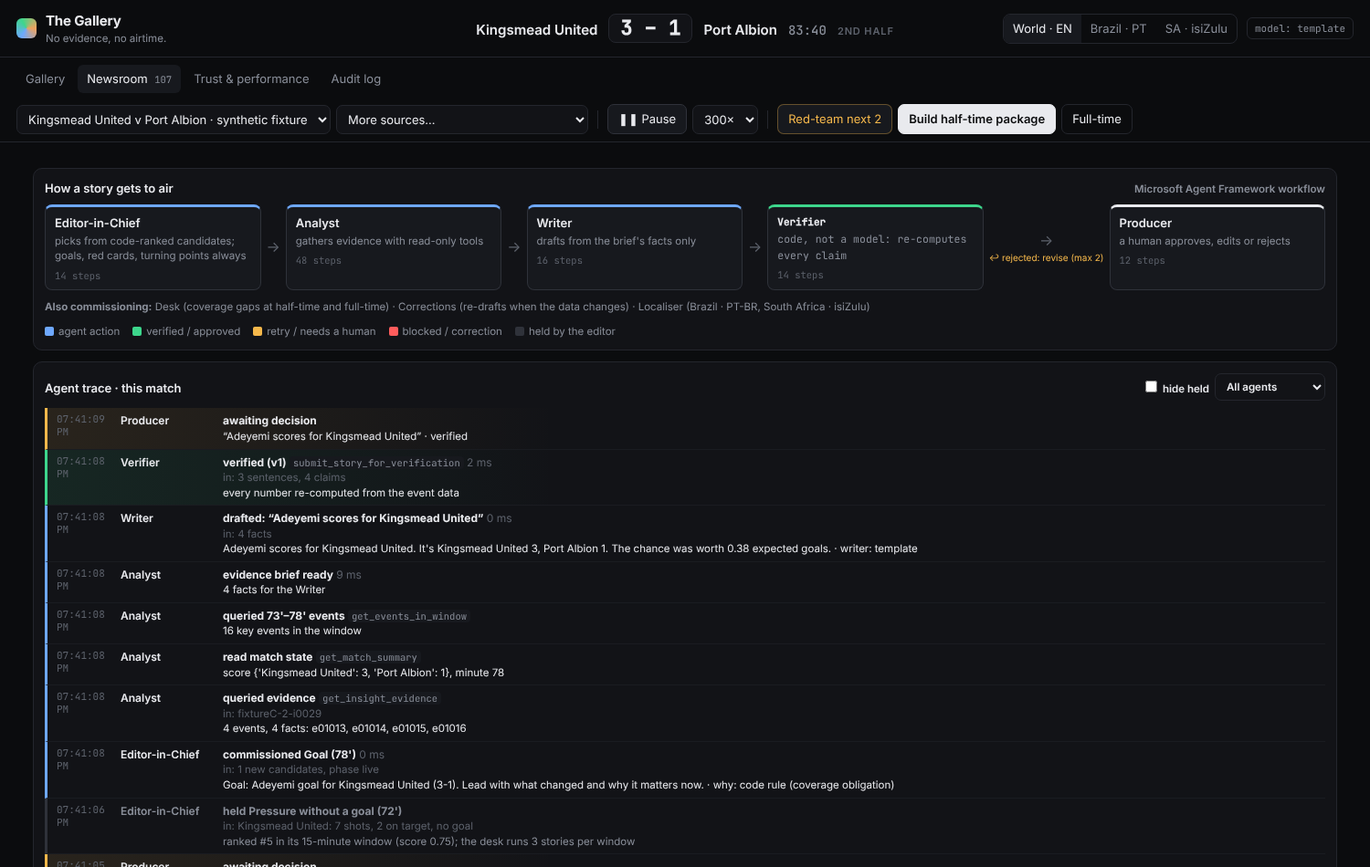
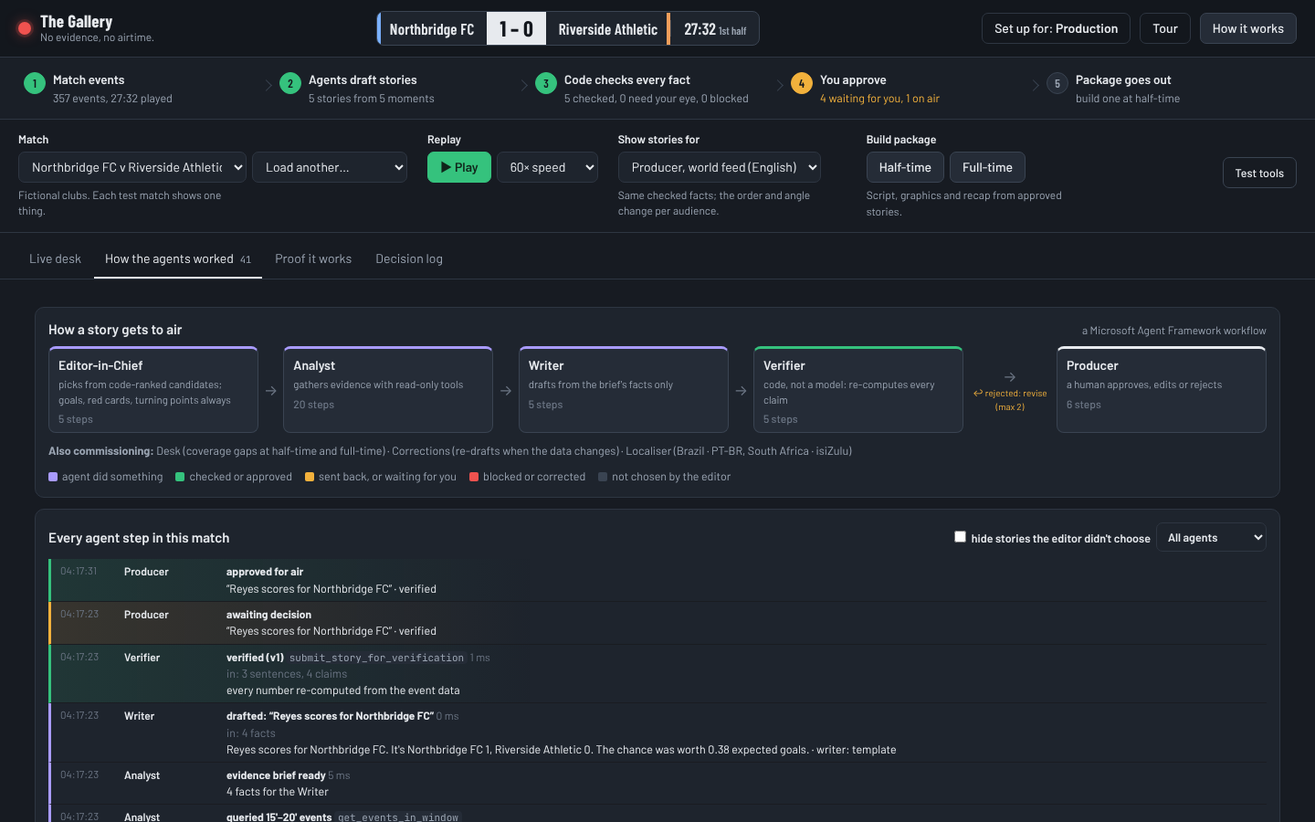
Full review: phone scrolling fix, trimmed desk, plain-language package, fresh screenshots, LICENSE, update PRs paused
- phones: the page scrolls again (body overflow-x clip instead of a nested scroller)
- removed the duplicate agent panel; second story list no longer repeats the top stories; match-data panel folds
- package drawer shows rights in plain words (full JSON stays in the download); corrections say 'corrected version' instead of ids
- lower third clears after its time instead of covering the pitch; active player drawn on top; fan wording
- writer badge only when a model is configured; unused CSS removed; version 1.0.0
- README screenshots retaken; demo script v4 and write-up (Copilot, roles, pitch, 374 claims); all-rights-reserved LICENSE per the Official Rules
- Dependabot version PRs paused until after judging (20 Nov); ops notes on keeping the demo awake

Claude-Session: https://claude.ai/code/session_01V1DcQB5TniVkacFhhCeCvU

Changed region(s): [[0.0, 0.0, 1.0, 1.0], [0.7188, 0.6533, 0.9375, 0.6844], [0.0938, 0.9333, 0.125, 0.9644]]

diff --git a/web/app.js b/web/app.js
@@ -215,7 +215,7 @@
       rb.title = "At full time the score rebuilt from the events is compared with the fixture's known result.";
     } else rb.className = "result hidden";
     renderFeedPanel();
-    renderFeed(); renderMomentum(); renderQueue(); renderInspector(); renderMiniTrace(); renderPipe();
+    renderFeed(); renderMomentum(); renderQueue(); renderInspector(); renderPipe();
     if (S.tab === "trust") renderTrust();
     if (S.tab === "newsroom") renderNewsroom();
     $("traceCount").textContent = S.trace.length ? S.trace.length : "";
@@ -396,7 +396,7 @@
     const tag = cur && cur.kind === "player_tag" ? cur : null;
     $("fTag").classList.toggle("hidden", !tag);
     if (tag) { $("fTag").querySelector(".ptag-name").textContent = `#${shirt(tag.team_id, tag.player)} ${tag.player}`; $("fTag").querySelector(".ptag-val").textContent = tag.fields.value; }
-    const story = cur && cur.kind === "story" ? cur : OV.lastStory;
+    const story = cur && cur.kind === "story" ? cur : null;
     $("fL3").classList.toggle("hidden", !story); $("fL3").classList.toggle("stale", !!story && story !== cur);
     $("fEmpty").classList.toggle("hidden", !!story || S.events.length > 0);
     if (story) {
@@ -516,7 +516,7 @@
     P.ball.path = end ? [start, end] : [start]; P.ball.t0 = performance.now();
     if (end && P.trail) { P.trail.setAttribute("x1", PX(start[0])); P.trail.setAttribute("y1", PY(start[1])); P.trail.setAttribute("x2", PX(end[0])); P.trail.setAttribute("y2", PY(end[1])); P.trail.classList.toggle("shot", e.type === "shot"); P.trail.style.opacity = 0.8; }
     if ((e.type === "shot" && e.outcome === "goal") || e.type === "own_goal") flash(e.type === "own_goal" ? "OWN GOAL" : "GOAL", e);
-    const n = P.nodes && P.nodes[P.active]; if (n) n.querySelector(".pn").textContent = e.player || "";
+    const n = P.nodes && P.nodes[P.active]; if (n) { n.querySelector(".pn").textContent = e.player || ""; n.parentNode.appendChild(n); }
   }
   function flash(kind, e) {
     const f = $("goalFlash"), num = shirt(pteam(e), e.player), sc = { HOME: 0, AWAY: 0 };
@@ -592,14 +592,16 @@
     $("queue").innerHTML = top.length ? top.map(({ r, s }) => card(s, r, false)).join("")
       : `<div class="empty">${S.events.length ? (fan ? "Nothing big in the last 15 minutes. Stories appear here the moment something happens." : "Watching… no story in the last 15 minutes yet.") : (S.snap.mode === "live" ? "Press Kick-off, then log events as you watch." : S.snap.mode === "real" ? `Real match: ${esc(S.snap.meta.date || "")} · ${esc(S.snap.meta.stadium || "")}. Press Play to replay it event by event.` : fan ? "Press ▶ Play to watch the match unfold. This is a made-up match, replayed event by event." : "Press Play to start the replay.")}</div>`;
     const f = S.funnel || {};
-    $("queueNote").textContent = S.market === "viewer" && S.viewer
+    $("queueNote").textContent = fan ? (S.viewer?.club || S.viewer?.player ? `${[S.viewer.club && S.snap.names[S.viewer.club], S.viewer.player].filter(Boolean).join(" and ")} first.` : "The biggest moment of the last 15 minutes.")
+      : S.market === "viewer" && S.viewer
       ? `What ${fanLabel()} would see: the same checked stories, re-ordered and trimmed for them.`
       : S.market !== "world" ? `The strongest checked stories for the ${({ br: "Brazil", za: "South Africa" })[S.market]} feed. The lead story changes with the audience.`
       : "The three strongest checked stories from the last 15 minutes, ranked by code. Click one to review it.";
     $("funnel").textContent = `${f.insights || 0} insights → ${f.storylines || 0} storylines → ${f.verified || 0} verified · ${f.flagged || 0} flagged · ${f.blocked || 0} blocked → ${f.approved || 0} approved`;
     const rankById = Object.fromEntries((S.rankings[S.market] || []).map((r) => [r.insight_id, r]));
-    const list = Object.values(S.storylines).filter((s) => s.market === "world" && (!fan || fanSafe(s))).sort((a, b) => b.minute - a.minute || b.created_at - a.created_at);
-    $("allStories").innerHTML = list.map((w) => card(S.market === "world" ? w : (storyFor(w.insight_id) || w), rankById[w.insight_id], true)).join("") || `<div class="empty">No storylines yet.</div>`;
+    const shown = new Set(top.map(({ s }) => s.storyline_id));   // the top stories are already on screen above
+    const list = Object.values(S.storylines).filter((s) => s.market === "world" && !shown.has(s.storyline_id) && (!fan || fanSafe(s))).sort((a, b) => b.minute - a.minute || b.created_at - a.created_at);
+    $("allStories").innerHTML = list.map((w) => card(S.market === "world" ? w : (storyFor(w.insight_id) || w), rankById[w.insight_id], true)).join("") || `<div class="empty">${S.events.length ? "Nothing else yet." : "No stories yet."}</div>`;
   }
 
   function card(s, r, compact) {
@@ -706,8 +708,8 @@
 
     const repl = replacementOf(s);
     const banner = s.status === "superseded" ? `<div class="corr">Replaced by a corrected version. This one can no longer be approved. <button class="btn ghost small" data-goto="${s.superseded_by}">Open the correction</button></div>`
-      : s.status === "needs_correction" ? `<div class="corr">⚠ The data behind this approved story changed. ${repl ? `The Corrections agent drafted v-next (${esc(repl.overall.replace("_", " "))}). Approve it to replace this one on air.` : "The Corrections agent is re-drafting it."} ${repl ? `<button class="btn ghost small" data-goto="${repl.storyline_id}">Review the correction</button>` : ""}</div>`
-      : s.supersedes ? `<div class="corr fix">Correction of ${esc(s.supersedes)}. Approving it takes the old version off air. <button class="btn ghost small" data-goto="${s.supersedes}">See the old version</button></div>` : "";
+      : s.status === "needs_correction" ? `<div class="corr">⚠ The data behind this approved story changed. ${repl ? `The Corrections agent drafted a corrected version (${esc(VLABEL[repl.overall] || repl.overall).toLowerCase()}). Approve it to replace this one on air.` : "The Corrections agent is re-drafting it."} ${repl ? `<button class="btn ghost small" data-goto="${repl.storyline_id}">Review the correction</button>` : ""}</div>`
+      : s.supersedes ? `<div class="corr fix">Corrected version of “${esc(S.storylines[s.supersedes]?.headline || "an earlier story")}”. Approving it takes the old version off air. <button class="btn ghost small" data-goto="${s.supersedes}">See the old version</button></div>` : "";
     const commission = s.commissioned_by ? `<div class="small muted" style="margin-top:6px">Commissioned by <b>${esc(AGENT_LABEL[s.commissioned_by] || s.commissioned_by)}</b>: ${esc(s.brief || "")}${s.commission_reason ? ` <span class="faint">(${esc(s.commission_reason)})</span>` : ""}</div>` : "";
     $("inspBody").className = "insp";
     $("inspBody").innerHTML = `${banner}
@@ -818,7 +820,19 @@
       ${(p.needs_correction || []).length ? `<div class="corr">⚠ ${p.needs_correction.length} approved stor${p.needs_correction.length === 1 ? "y is" : "ies are"} now contradicted by the data and left out: ${esc(p.needs_correction.join("; "))}</div>` : ""}`;
     $("pkgBody").innerHTML = `<div>${covHtml}${p.note ? `<div class="empty">${esc(p.note)}</div>` : items}</div>
       <div><h4 style="margin-top:0">Recap</h4><div>${esc(p.recap)}</div><h4>Social copy</h4><div>${esc(p.social)}</div>
-      <h4>Rights envelope</h4><div class="code">${esc(JSON.stringify(p.rights || {}, null, 2))}</div><h4>Graphics payload (JSON)</h4><div class="code">${esc(JSON.stringify(p.items.map((i) => i.graphic_payload), null, 2))}</div></div>`;
+      <h4>Where it can be used</h4>${rightsSummary(p.rights)}
+      <p class="small muted">The full rights terms and graphics data are in <b>Everything (.json)</b>.</p></div>`;
+  }
+  function rightsSummary(r) {
+    if (!r) return `<p class="muted small">No rights terms.</p>`;
+    const words = (xs) => (xs || []).map((x) => x.replace(/_/g, " ")).join(", ");
+    const until = r.expires_at ? new Date(r.expires_at * 1000).toLocaleString([], { weekday: "short", hour: "2-digit", minute: "2-digit" }) : "–";
+    return `<div class="kv small"><span>Territories</span><span>${esc(words(r.territories))}</span>
+      <span>Surfaces</span><span>${esc(words(r.allowed_surfaces))}</span>
+      <span>Video clips</span><span>${esc(words([r.clip_rights]))}</span>
+      <span>Valid until</span><span>${esc(until)}</span>
+      <span>Approval</span><span>${r.approval_state === "producer_approved" ? "every story approved by a producer" : "nothing approved yet"}</span>
+      <span>Checked</span><span>${esc(r.verification || "")}</span></div>`;
   }
   $("copyPayload").onclick = async () => {
     if (!S.pkg) return;
@@ -920,10 +934,6 @@
       if (S.selected === sid) renderInspector();
     }, 120);
   }
-  function renderMiniTrace() {
-    const rows = S.trace.filter((t) => t.status !== "held").slice(-9).reverse();
-    $("miniTrace").innerHTML = traceRows(rows, false) || `<li class="muted small">Agents start when the first story is detected.</li>`;
-  }
   const FLOW = [
     ["Editor-in-Chief", "picks from code-ranked candidates; goals, red cards, turning points always"],
     ["Analyst", "gathers evidence with read-only tools"],
@@ -953,6 +963,7 @@
     b.textContent = p.status === "ready" && p.provider !== "template" ? `Writer: ${name} (${(p.model || "").split(":")[0].replace(/-instruct.*$/, "")})` : p.selected !== "template" ? `Writer: templates (${name === "template" ? p.selected.replace("_", " ") : name} ${p.status})` : "Writer: templates";
     b.title = p.detail + (p.failures ? ` · ${p.failures} model failures fell back to templates` : "");
     b.className = "badge " + (p.status === "ready" && p.provider !== "template" ? "on" : ["starting", "downloading", "loading"].includes(p.status) ? "busy" : "");
+    b.classList.toggle("hidden", p.selected === "template" && p.provider === "template");   // nothing to report without a model
   }
   async function pollProvider() {
     try { S.provider = await api("/api/model"); renderProvider(); } catch (_) {}

diff --git a/web/index.html b/web/index.html
@@ -69,7 +69,7 @@
           <option value="archive">Archive match (validation only)</option>
         </select>
       </div>
-      <small>Synthetic matches with fictional clubs. Each fixture tests one thing.</small>
+      <small>Fictional clubs. Each test match shows one thing.</small>
     </div>
 
     <div class="ctl" id="replayControls">
@@ -81,7 +81,6 @@
           <option value="60">60× speed</option><option value="300">300× speed</option>
         </select>
       </div>
-      <small>Plays the match event by event, as if it were live.</small>
     </div>
 
     <div class="ctl hidden" id="liveControls">
@@ -104,7 +103,7 @@
         <select id="fanPlayer" aria-label="A player to follow"><option value="">No player</option></select>
         <span class="seg" id="fanDepth" role="group" aria-label="How much detail"><button type="button" data-v="casual" class="on">Simple</button><button type="button" data-v="analyst">All the stats</button></span>
       </div>
-      <small>Pick your club or a player; their moments come first.</small>
+      <small>Their moments come first.</small>
     </div>
 
     <div class="ctl pro-only">
@@ -126,7 +125,7 @@
         <button class="btn" id="htBtn">Half-time <span id="htCountdown"></span></button>
         <button class="btn" id="ftBtn">Full-time</button>
       </div>
-      <small>Collects approved stories into a script, graphics and recap.</small>
+      <small>Script, graphics and recap from approved stories.</small>
     </div>
 
     <details class="ctl tools pro-only" id="toolsMenu">
@@ -166,26 +165,21 @@
     </section>
     <div class="grid">
     <section class="col left">
-      <div class="panel hidden pro-only" id="feedPanel">
-        <div class="panel-h"><h2 id="feedTitle">About this match</h2><span class="hint" id="feedState"></span></div>
+      <details class="panel hidden pro-only fold" id="feedPanel">
+        <summary class="panel-h"><h2 id="feedTitle">About this match</h2><span class="hint" id="feedState"></span></summary>
         <div class="small" id="feedCaps"></div>
         <div class="kv small" id="teamStats"></div>
-      </div>
+      </details>
 
       <div class="panel grow">
         <div class="panel-h"><h2>Match events</h2><span class="hint" id="eventCount">0</span></div>
         <ol id="feed" class="feed"></ol>
       </div>
-
-      <div class="panel pro-only">
-        <div class="panel-h"><h2>Agents at work</h2><span class="hint">latest first</span></div>
-        <ol id="miniTrace" class="trace mini"></ol>
-      </div>
     </section>
 
     <section class="col centre">
       <div class="panel onscreen">
-        <div class="panel-h"><h2>On screen</h2><span class="hint">what viewers would see, from the overlay feed</span></div>
+        <div class="panel-h"><h2>On screen</h2><span class="hint"><span class="pro-only">what viewers would see</span><span class="fan-only">the match, live</span></span></div>
         <div class="frame" id="frame" aria-live="polite">
           <svg id="pitch" class="pitch" viewBox="0 0 160 90" preserveAspectRatio="xMidYMid meet" role="img" aria-label="Live pitch: ball and players"></svg>
           <div id="goalFlash" class="goalflash hidden" role="status"></div>
@@ -195,7 +189,7 @@
           <p class="frame-empty" id="fEmpty"><span class="pro-only">Approve a story and it appears here as an on-screen graphic.</span><span class="fan-only">Fast shots and long passes get a name tag here automatically.</span></p>
         </div>
         <div class="frame-foot">
-          <small>The ball and the player on it (shirt number from the team sheet) follow the event data; teammates are drawn in team shape, since the feed has no tracking data. <span class="pro-only">Only stories you approve go on screen as graphics. </span>Name tags fire on their own for shots of 100 km/h or more and passes of 40 m or more.</small>
+          <small>Ball and player on the ball: from the match data. Teammates: team shape (no tracking data). <span class="pro-only">Only approved stories become graphics.</span></small>
           <button class="btn pro-only" id="outputsBtn" title="Put these graphics into OBS, vMix, Wirecast or CasparCG, or read them as data">Use in your graphics system</button>
         </div>
       </div>
@@ -210,7 +204,7 @@
       <div id="queue" class="queue"></div>
 
       <div class="section-h">
-        <h2><span class="pro-only">All stories</span><span class="fan-only">Earlier in the match</span></h2>
+        <h2><span class="pro-only">More stories</span><span class="fan-only">Earlier in the match</span></h2>
         <p id="funnel" class="pro-only"></p>
       </div>
       <div id="allStories" class="stories"></div>

diff --git a/web/styles.css b/web/styles.css
@@ -44,10 +44,6 @@ button, input, select { font: inherit; color: inherit; }
   padding: 12px 18px; border-bottom: 1px solid var(--line); gap: 16px;
 }
 .brand { display: flex; gap: 10px; align-items: center; }
-.brand-mark {
-  width: 22px; height: 22px; border-radius: 6px;
-  background: conic-gradient(from 210deg, var(--home), var(--ok), var(--away), var(--home));
-}
 .brand-name { font-weight: 700; letter-spacing: -0.01em; font-size: 15px; }
 .brand-tag { color: var(--muted); font-size: 11.5px; }
 .scoreboard { display: flex; align-items: baseline; gap: 12px; font-weight: 600; }
@@ -62,12 +58,9 @@ button, input, select { font: inherit; color: inherit; }
 .badge { font: 11px var(--mono); color: var(--muted); border: 1px solid var(--line); padding: 4px 8px; border-radius: 6px; }
 
 /* ---------- sub bar ---------- */
-.subbar { display: flex; justify-content: space-between; align-items: center; padding: 8px 18px; border-bottom: 1px solid var(--line); gap: 12px; flex-wrap: wrap; }
 .tabs { display: flex; gap: 4px; }
 .tab { background: transparent; border: 0; padding: 6px 10px; border-radius: 6px; color: var(--muted); cursor: pointer; }
 .tab.on { background: var(--panel-2); color: var(--text); }
-.matchbar { display: flex; gap: 6px; align-items: center; flex-wrap: wrap; }
-.divider { width: 1px; height: 20px; background: var(--line); margin: 0 4px; }
 select, .clock-input, .player-input, dialog input {
   background: var(--panel); border: 1px solid var(--line); border-radius: 7px; padding: 6px 8px;
 }
@@ -92,7 +85,6 @@ select, .clock-input, .player-input, dialog input {
 
 /* momentum */
 .momentum { width: 100%; height: 120px; display: block; }
-.legend { display: flex; gap: 6px; align-items: center; color: var(--muted); margin-top: 6px; }
 .dot { width: 8px; height: 8px; border-radius: 50%; display: inline-block; }
 .dot.home { background: var(--home); } .dot.away { background: var(--away); margin-left: 10px; }
 
@@ -662,7 +654,7 @@ code { font-family: var(--mono); font-size: .92em; background: var(--panel-2); p
   .scorebug .score { font-size: 20px; padding: 6px 10px; }
   .scorebug .clock { padding: 6px 10px; flex: 1 0 100%; border-left: 0; border-top: 1px solid var(--line-2); display: flex; gap: 8px; align-items: center; flex-wrap: wrap; }
   .scorebug .result, .scorebug .livebadge { margin: 4px 10px; }
-  html, body { overflow-x: hidden; }
+  body { overflow-x: clip; }
 }
 @media (max-width: 640px) {
   #fanCtl .row select { flex: 1 1 40%; }
@@ -696,3 +688,8 @@ code { font-family: var(--mono); font-size: .92em; background: var(--panel-2); p
 .l3 { bottom: 4%; }
 .frame-empty { inset: auto 0 6% 0; }
 @media (prefers-reduced-motion: reduce) { .goalflash { animation: none; } }
+details.fold > summary { list-style: none; cursor: pointer; margin-bottom: 0; }
+details.fold > summary::-webkit-details-marker { display: none; }
+details.fold > summary h2::before { content: "▸ "; color: var(--faint); }
+details.fold[open] > summary { margin-bottom: 8px; }
+details.fold[open] > summary h2::before { content: "▾ "; }

diff --git a/backend/gallery/production.py b/backend/gallery/production.py
@@ -43,7 +43,7 @@ class Settings:
     max_matches: int = field(default_factory=lambda: _int("MAX_MATCHES", 40))
     max_per_visitor: int = field(default_factory=lambda: _int("MAX_MATCHES_PER_VISITOR", 3))
     api_docs: bool = field(default_factory=lambda: _flag("API_DOCS", not _flag("PUBLIC_DEMO")))
-    version: str = field(default_factory=lambda: os.getenv("APP_VERSION", "0.3.0"))
+    version: str = field(default_factory=lambda: os.getenv("APP_VERSION", "1.0.0"))
     commit: str = field(default_factory=lambda: os.getenv("RENDER_GIT_COMMIT", os.getenv("GIT_COMMIT", "dev"))[:12])
 
 

diff --git a/docs/05-demo-and-pitch.md b/docs/05-demo-and-pitch.md
@@ -1,6 +1,6 @@
 # 05 · Demo and Pitch
 
-**Status:** Script v3 (agent workflow), 12 Oct 2026. Video rules: **under 2:00**, public URL (YouTube / Vimeo / Facebook Video / Youku), **no third-party trademarks or copyrighted music**. Use synthetic fixtures only.
+**Status:** Script v4 (roles and live pitch), 24 Oct 2026. Rules: judging 27 Oct – 10 Nov 2026, winners announced by 20 Nov; the repository must be public. Video rules: **under 2:00**, public URL (YouTube / Vimeo / Facebook Video / Youku), **no third-party trademarks or copyrighted music**. Use synthetic fixtures only.
 
 ---
 
@@ -18,13 +18,13 @@ Large on-screen captions throughout: judges may watch muted.
 
 | Time | Screen | Voice-over / caption |
 |---|---|---|
-| 0:00–0:12 | Fixture C, Live desk. Press **Test tools → Plant 2 false sentences**, then ▶ Play at 60×. A story card arrives; Story details → How the agents made it shows **Verifier: blocked (v1)** · *"…looks exhausted…" → unsupported state* | "This AI newsroom just wrote a sentence the data can't support. It never reached the producer." |
+| 0:00–0:12 | Welcome screen → **Production company or broadcaster**, skip the tour. *Load another* → Fixture C. Press **Test tools → Plant 2 false sentences**, then ▶ Play at 60×. A story card arrives; Story details → How the agents made it shows **Verifier: blocked (v1)** · *"…looks exhausted…" → unsupported state* | "This AI newsroom just wrote a sentence the data can't support. It never reached the producer." |
 | 0:12–0:30 | Same trace: **Writer: sent back for revision (1/2)** → **Verifier: verified (v2)** → **Producer: awaiting decision**. Hover a sentence: SQL + event rows | "Agents write. Code checks. Every sentence carries a claim that's re-computed from the match data. No evidence, no airtime." |
-| 0:30–0:50 | **Newsroom** tab: the workflow diagram and the live trace (Editor-in-Chief commissions and holds, Analyst tool calls) | "Built on Microsoft Agent Framework: an Editor-in-Chief commissions, an Analyst gathers evidence with read-only tools, a Writer drafts, and a deterministic Verifier is the only one allowed to say what's true." |
-| 0:50–1:10 | Fixture A at 60×: turning-point story *"The red card that turned the match"*; **Why not?** panel | "It finds the moment that mattered, ranks it with a visible formula, and explains why other stories lost." |
+| 0:30–0:50 | **How the agents worked** tab: the workflow diagram and the live trace (Editor-in-Chief commissions and holds, Analyst tool calls) | "Built on Microsoft Agent Framework: an Editor-in-Chief commissions, an Analyst gathers evidence with read-only tools, a Writer drafts, and a deterministic Verifier is the only one allowed to say what's true." |
+| 0:50–1:10 | Fixture A at 60×: the **On screen** pitch (ball moving as the feed describes, numbered players, GOAL flash at 20'), then the turning-point story *"The red card that turned the match"* and the **Why not?** panel | "It finds the moment that mattered, ranks it with a visible formula, and explains why other stories lost." |
 | 1:10–1:35 | Fixture B at 20×: approve the 29' goal story → feed re-credits the goal → card turns red → **Review the correction** → approve | "Facts change. When the feed re-credits a goal, the approved story is pulled, the Corrections agent drafts a fixed version, and the producer re-approves. Both versions stay in the audit." |
-| 1:35–1:45 | Readiness bar at 100%; **Show stories for → A single fan…** → Casual fan following one player, then Analyst | "The same verified stories, shaped for a casual fan or an analyst, a favourite club or one player." |
-| 1:45–1:55 | **Trust** tab: 0 escapes of 361, 37/37 stopped, 12/12 covered | "Measured, not claimed. The Gallery: no evidence, no airtime." |
+| 1:35–1:45 | Readiness bar at 100%; **Set up for → Fan**: follow the away club and one player, Simple, then All the stats | "The same verified stories, shaped for a casual fan or an analyst, a favourite club or one player." |
+| 1:45–1:55 | **Proof it works** tab: 0 escapes of 374, 37/37 stopped, 12/12 covered | "Measured, not claimed. The Gallery: no evidence, no airtime." |
 
 Only show numbers from your own benchmark run on the recording day.
 
@@ -39,15 +39,16 @@ Only show numbers from your own benchmark run on the recording day.
 **What it does:**
 The Gallery turns a match event feed into producer-ready coverage. Deterministic detectors find momentum shifts, counterattacks, standout performers, goals, red cards and turning points. A newsroom of agents built on Microsoft Agent Framework (Editor-in-Chief, Analyst, Writer, Desk, Corrections, Localiser) turns them into stories. Every factual sentence must carry a structured claim, and a deterministic Verifier re-computes it from the event data; blocked drafts go back to the Writer (max two revisions). A coverage check makes sure every goal and red card is covered, and when the feed corrects an event, approved stories are re-checked, pulled if wrong and replaced after re-approval.
 
-**Microsoft technologies:** Microsoft Agent Framework (workflow, executors, conditional revision loop); Microsoft Foundry Local (on-device model via `foundry-local-sdk`, OpenAI-compatible endpoint); Azure OpenAI / Microsoft Foundry supported as a hosted provider through the same interface; GitHub Actions CI. *(Add GitHub Copilot only if you used it.)*
+**Microsoft technologies:** Microsoft Agent Framework (workflow, executors, conditional revision loop); Microsoft Foundry Local (on-device model via `foundry-local-sdk`, OpenAI-compatible endpoint); Azure OpenAI / Microsoft Foundry supported as a hosted provider through the same interface; GitHub Actions CI; GitHub Copilot in early prototyping.
 
 **What makes it different:**
 1. Agents can't grade their own work: the only verdict comes from code.
 2. True-but-incomplete is a failure: the coverage check catches missing moments.
 3. Living verification: corrections re-check approved stories, with full version history.
 4. Measured: planted-pattern fixtures and red-team drafts with known answers.
+5. Ready to use: the console sets itself up for a production company, a league or club media team, or a fan; approved stories go straight into OBS, vMix, Wirecast or CasparCG as a transparent graphics page, or into any graphics system as a data feed.
 
-**Results:** 0 unsupported claims through (of 361 verified, independently re-computed) · 37/37 planted false claims stopped · 12/12 key moments covered · 1/1 correction caught and replaced · 29/32 planted patterns found.
+**Results:** 0 unsupported claims through (of 374 verified, independently re-computed) · 37/37 planted false claims stopped · 12/12 key moments covered · 1/1 correction caught and replaced · 29/32 planted patterns found.
 
 **Data:** synthetic only; fictional clubs and players.
 

diff --git a/README.md b/README.md
@@ -12,7 +12,7 @@ The Gallery is a newsroom of AI agents for live football coverage, with one rule
 
 ![The live desk during a synthetic match](docs/screenshots/gallery.png)
 
-The console reads top to bottom: the **pipeline strip** says where every story is (events → agents draft → code checks → you approve → package), the **controls** each carry a one-line caption, **Who is on top** shows each team's attacking threat with goals and red cards marked and a plain-English summary of the last ten minutes, and **How it works** explains every control and mark.
+The first visit asks who you are (production company, league or club media team, or fan) and sets the screen up for you; **Tour** walks through it in under a minute. Then it reads top to bottom: the **pipeline strip** says where every story is (events → agents draft → code checks → you approve → package), **Who is on top** shows each team's attacking threat with a plain-English summary of the last ten minutes, **On screen** is a live pitch where the ball moves exactly as the event feed describes and every player carries his team-sheet number, and **How it works** explains every control and mark.
 
 ---
 
@@ -67,7 +67,7 @@ Plus **data innovation** (fixtures with planted patterns and truth files) and **
 | **Measures pass quality and speed** | Pass distance, accuracy and difficulty, ball and shot speed: each a verifier metric with its own SQL, shown on the analyst view and the player card. |
 | **Knows when it's ready** | A half-time / full-time readiness score: approved stories, coverage, outstanding corrections, markets. |
 
-| Casual fan, supporting the away side and following one player | Analyst view of the same match |
+| Fan view: following the away side, plain words | Fan view with all the stats, following one player |
 |---|---|
 | ![](docs/screenshots/viewer_casual.png) | ![](docs/screenshots/viewer_analyst.png) |
 
@@ -156,6 +156,7 @@ Momentum detection is tuned for precision over recall: every detection inside a 
 | **Model Context Protocol** | `gallery.mcp_server`: read-only tools so Copilot or any MCP agent can use verified stories, provenance and coverage gaps, but never approve or publish |
 | **Azure OpenAI / Microsoft Foundry** | Optional hosted model, same interface (`MODEL_PROVIDER=azure_openai`) |
 | **GitHub Actions** | CI on Python 3.12 and 3.13: lint, tests, benchmark smoke test, data-policy check, `pip-audit`, Docker image smoke test |
+| **GitHub Copilot** | Used in the early prototyping stage |
 | Python · FastAPI · SQLite · Pydantic | Engine, API, typed agent contracts |
 | Vanilla JS (no build step) | Producer console |
 
@@ -227,7 +228,7 @@ cd backend && python -m gallery.mcp_server     # stdio; reads from the running a
 
 Tools: `list_matches`, `get_match_state`, `get_verified_storylines`, `get_storyline_provenance`, `get_coverage_gaps`, `get_readiness`, `get_corrections`, `get_player_card`. All read-only.
 
-**Try it:** press ▶ Play. Pick fixture B from *Load another* to see a correction and its impact; press **Test tools → Plant 2 false sentences** to watch the Verifier catch a false sentence and the Writer revise it; click **Show stories for → A single fan…** to switch to a casual-fan or analyst view, pick a club or follow a player; open the **Newsroom** tab for the trace.
+**Try it:** pick **Production** on the welcome screen and press ▶ Play. Pick fixture B from *Load another* to see a correction and its impact; press **Test tools → Plant 2 false sentences** to watch the Verifier catch a false sentence and the Writer revise it; open **How the agents worked** for the trace. Switch to **Set up for → Fan** to follow a club or a player.
 
 ## Tests
 
@@ -278,6 +279,10 @@ cd backend && python -m gallery.benchmark --quick
 | [`08-differentiation.md`](docs/08-differentiation.md) | How this differs from existing tools |
 | [`09-operations.md`](docs/09-operations.md) | Configuration, deploy, monitoring, limits, incident runbook |
 | [`10-user-guide.md`](docs/10-user-guide.md) | Quick starts for producers, league media teams and fans; graphics setup; other sports |
+
+## Licence
+
+Copyright © 2026 Lindokuhle Nyoka. All rights reserved; see [`LICENSE`](LICENSE). The code is public so it can be reviewed and judged; under the hackathon's official rules the entrant keeps ownership and Microsoft and the Premier League receive a non-exclusive licence to the submission. Third-party packages (FastAPI, Microsoft Agent Framework and others) are installed from PyPI under their own open-source licences and are not copied into this repository.
 
 ## Team
 

diff --git a/docs/06-decision-log.md b/docs/06-decision-log.md
@@ -67,6 +67,9 @@ Record every decision that changes scope, design or pitch. Newest at the bottom.
 | D55 | 13 Oct | **Transparent browser-source graphics page + `?s=` session in links** | OBS, vMix, Wirecast and CasparCG all take a browser source, and none can set headers; writes still need the header | Native plugins per vendor |
 | D56 | 14 Oct | **Live 2D pitch in On screen**: ball and the player on it from event x/y; teammates in team shape (listed slot pulled toward their real average position, shifting with ball and possession); shirt numbers from the team sheet; goal and red-card flashes | Viewers and producers want to see the play, not just text | Inventing player tracks (the feed has none; labelled as team shape) |
 | D57 | 14 Oct | **Score sent with an event now includes that event** (detectors run before publish) | The scoreboard trailed a goal by one event | — |
+| D58 | 24 Oct | **Trimmed the desk**: removed the duplicate agent panel, the second story list no longer repeats the top stories, match-data panel folds away, package shows rights in plain words (JSON stays in the download), writer badge only when a model is configured | A full review found clutter that slowed first-time users | — |
+| D59 | 24 Oct | **All-rights-reserved LICENSE**, no open-source licence | Official Rules: the entrant keeps ownership and grants Microsoft and the Premier League a non-exclusive licence; an open licence would give everyone else rights too | MIT |
+| D60 | 24 Oct | **Dependency update PRs closed and paused until 20 Nov** | Judging 27 Oct – 10 Nov, winners by 20 Nov; three of the open PRs would have broken the build | Merging them before submission |
 
 ## Open questions
 
@@ -104,3 +107,4 @@ Record every decision that changes scope, design or pitch. Newest at the bottom.
 | 12 Oct | Docs v3: D33–D39; README rewritten around the agent newsroom; demo script v3 on synthetic fixtures; real-match references removed from public docs | Official rules (synthetic data) and the 17-step agent plan |
 | 13 Oct | D49–D52: production hardening; docs/09-operations.md and SECURITY.md added | "Make it production ready" |
 | 13 Oct | D53–D55: role-based console, fan mode, graphics outputs and downloads; docs/10-user-guide.md | "Make it easy for the Premier League, fans and production companies" |
+| 24 Oct | D58–D60: full review, desk trimmed, screenshots and demo script refreshed, LICENSE, update PRs paused | "Full run on the app and the project" |

diff --git a/docs/09-operations.md b/docs/09-operations.md
@@ -31,7 +31,7 @@ Everything is an environment variable with a safe default.
 | `MAX_MATCHES` | `40` | Public mode: matches held in memory in total (oldest go first) |
 | `MAX_MATCHES_PER_VISITOR` | `3` | Public mode: matches per visitor |
 | `API_DOCS` | off in public mode | Serve `/docs` and `/openapi.json` |
-| `APP_VERSION` | `0.3.0` | Reported by `/api/metrics` |
+| `APP_VERSION` | `1.0.0` | Reported by `/api/metrics` |
 | `APPLICATIONINSIGHTS_CONNECTION_STRING` | unset | Optional: send traces and logs to Azure Application Insights (`pip install -r requirements-observability.txt`) |
 | `ENABLE_VALIDATION_SOURCES` | `0` | Private validation only; forced off in public mode. Never enable on a public host |
 
@@ -48,7 +48,9 @@ docker run -p 8000:8000 -e PORT=8000 the-gallery
 
 The image runs as a non-root user (`gallery`, uid 10001), installs exact versions from `requirements.lock`, has a container `HEALTHCHECK`, honours `PORT`, trusts proxy headers (for HTTPS detection and client IPs) and shuts down gracefully within 10 seconds.
 
-**Free-tier sleep:** free instances sleep after ~15 idle minutes. The *Keep demo awake* workflow pings `DEMO_URL` every 10 minutes. If a visitor does hit a sleeping instance, the console shows "Waking up the demo…" and retries on its own.
+**Keep the demo up through judging:** judging runs 27 Oct – 10 Nov 2026 and winners are announced by 20 Nov, so the live URL and the public repository should stay unchanged until then (dependency update PRs are paused in `.github/dependabot.yml`).
+
+**Free-tier sleep:** free instances sleep after ~15 idle minutes. The *Keep demo awake* workflow asks GitHub to ping `DEMO_URL` every 10 minutes, but GitHub delays scheduled runs (in practice every 3–5 hours), so add a free external monitor (UptimeRobot or cron-job.org) on `/healthz` every 5 minutes. One always-on free service uses about 744 of Render's 750 free hours a month. If a visitor does hit a sleeping instance, the console shows "Waking up the demo…" and retries on its own.
 
 ## 4. Health and monitoring
 
